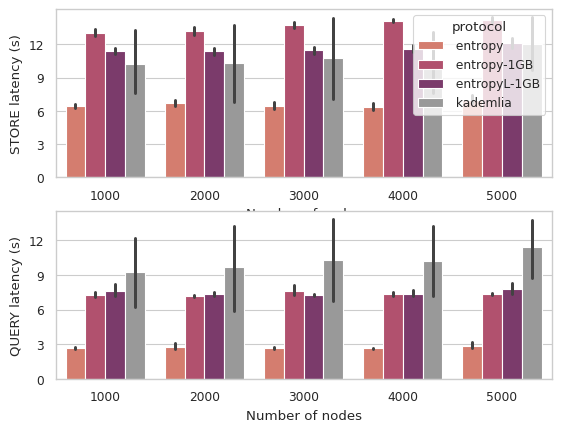
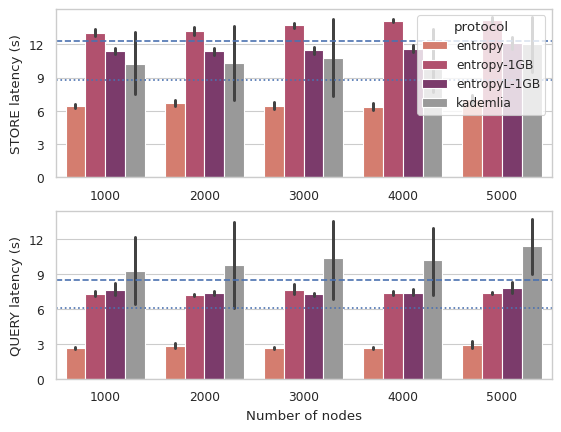
eval: Update latency graph

diff --git a/sections/eval.tex b/sections/eval.tex
@@ -87,8 +87,9 @@ Notice that erasure coding cannot be easily adapted into Kademlia, which causes 
 
 \begin{figure}
     \addgraph{latency}
-    \caption{Latency of \store and \query operation in a world-wide deployment. Entropy and Kademlia operate with 64MiB data objects while Entropy-1GB operate with 1GiB data objects.
-    EntropyL-1GiB is a variant that finalize \store when received $k_p$ gossip messages.}
+    \caption{Latency of \store and \query operation in a world-wide deployment. Entropy, Ceph and Kademlia operate with 64MiB data objects while Entropy-1GB operate with 1GiB data objects.
+    EntropyL-1GiB is a variant that finalize \store when received $k_p$ gossip messages.
+    Dashed line and dotted line represent average latency of Ceph's replicated pool and erasure coding pool repectively}
     \label{fig:latency}
 \end{figure}
 

diff --git a/sections/intro.tex b/sections/intro.tex
@@ -47,5 +47,5 @@ continents.
 \sgd{\sys shows good performance in both simulation and deployment evaluations.
 It can achieve similar repair traffic overhead compared to a typical distributed replicated storage when sufficient caching is available.
 The repairing overhead per failure keep constant when failing get more frequent.
-\sys can also perform data operations with \XXX lower latency compare to exist decentralized storage, while achieve similar scalability over thousands of peers.
+\sys can also perform data operations with 1.6x-3.1x lower latency compare to exist decentralized storage, while achieve similar scalability over thousands of peers.
 }
